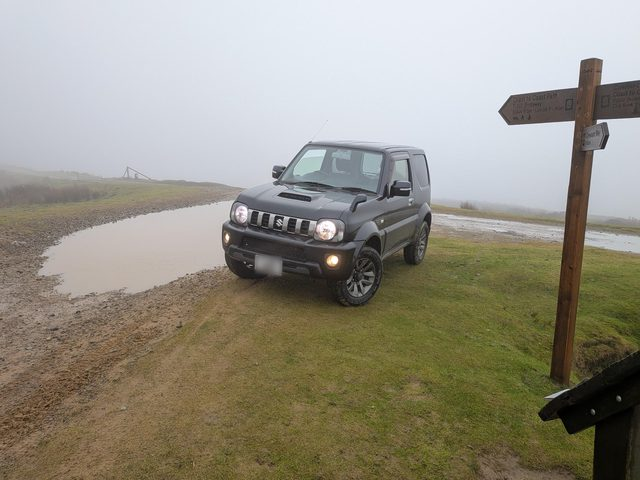
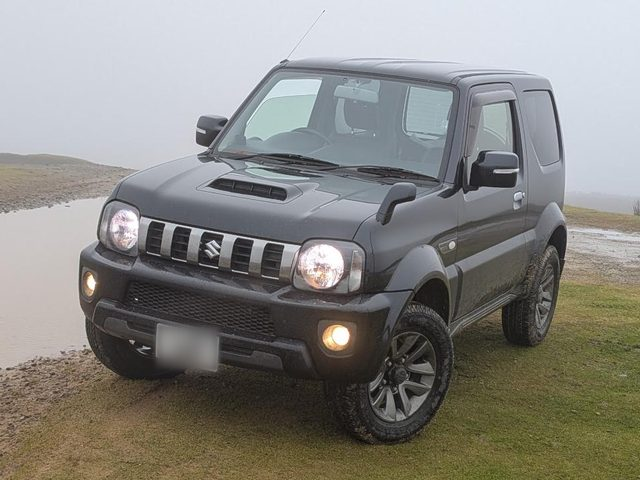
Blog: crop exterior photos to the car, add three more angles
Claude-Session: https://claude.ai/code/session_01WsXv8Ax3thDAQyoE9M17or

diff --git a/docs/index.md b/docs/index.md
@@ -13,11 +13,20 @@ I really love my Suzuki Jimny. It's a top of the range 2015
 [Jimny Sierra Land Venture](https://en.wikipedia.org/wiki/Suzuki_Jimny#Third_generation_%281998%29) (JB43W), a
 tiny but seriously capable Japanese 4x4, and there are few things I love more than this car.
 
-![Front on, in the fog by a Coast to Coast Path signpost](images/thumbs/50-front-fog.jpg)
-*Front on, in the fog by a Coast to Coast Path signpost.*
+![Front on, in the fog on the moors](images/thumbs/50-front-fog.jpg)
+*Front on, in the fog on the moors.*
 
-![Side on, on a muddy moorland car park](images/thumbs/51-side-moor.jpg)
-*Side on, on a muddy moorland car park.*
+![Head on, with the bonnet scoop and chrome grille](images/thumbs/53-front-close.jpg)
+*Head on, with the bonnet scoop and chrome grille.*
+
+![Front three-quarter view on a muddy moorland car park](images/thumbs/54-front-moor.jpg)
+*Front three-quarter, on a muddy moorland car park.*
+
+![Side on, on the same moorland car park](images/thumbs/51-side-moor.jpg)
+*Side on, in the same spot.*
+
+![Side on, parked up in town](images/thumbs/55-side-town.jpg)
+*Parked up in town.*
 
 ![From the back, with the Land Venture spare wheel cover](images/thumbs/52-rear.jpg)
 *From the back, with the Land Venture spare wheel cover.*
